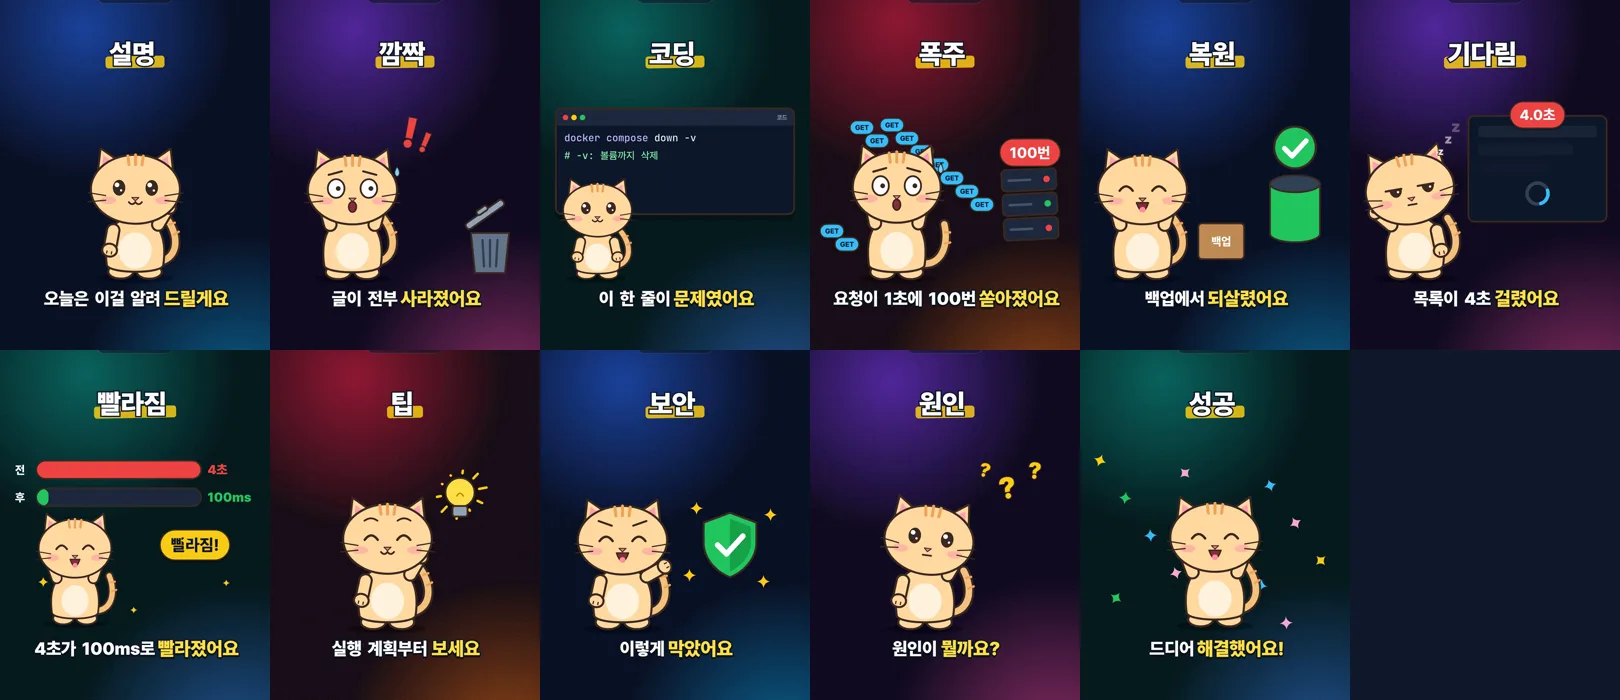
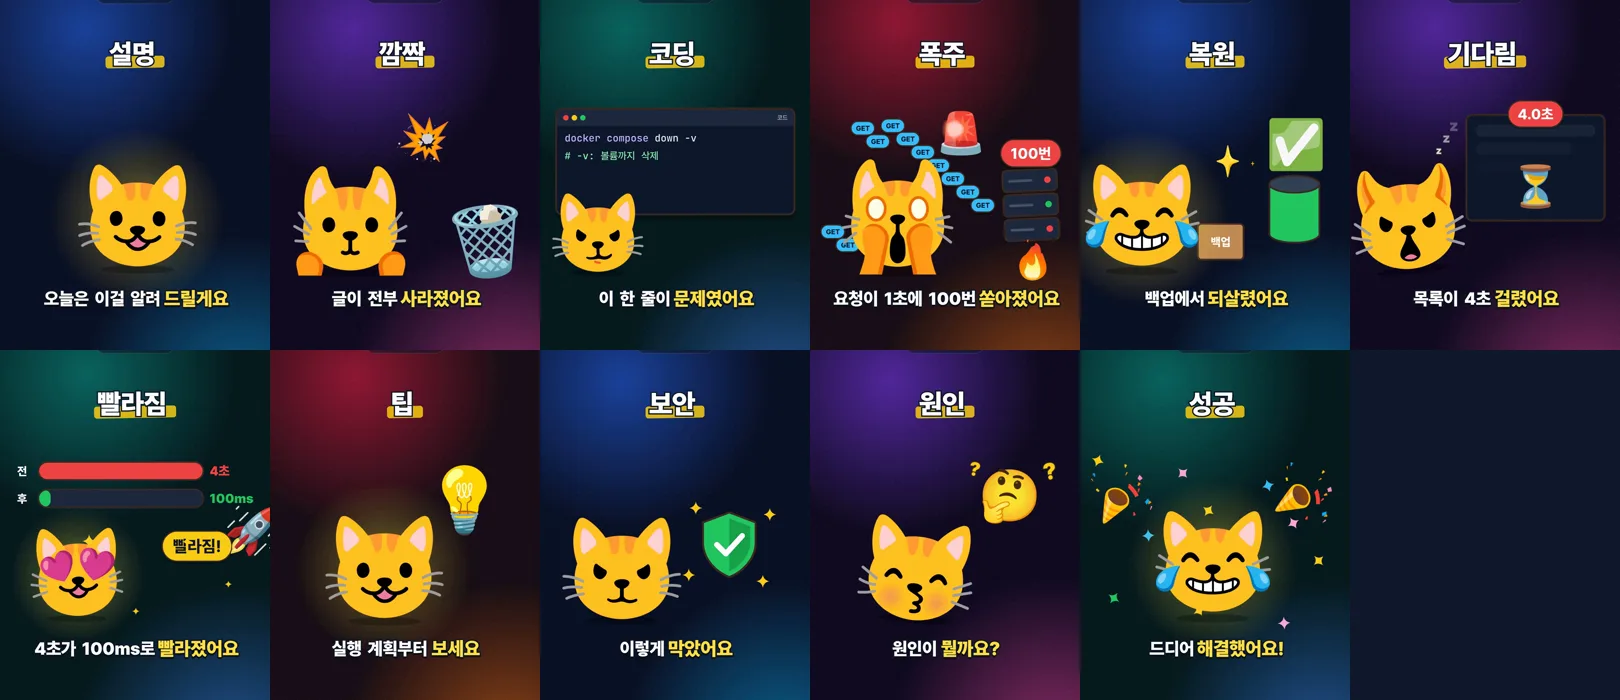
render-worker: 기쁜 표정 빛을 은은한 원형 빛으로 바꾸고 @remotion/shapes 빼기 (#277)
Claude-Session: https://claude.ai/code/session_01Y8NuZvyFS4arTLvW25ncLP

diff --git a/app/render-worker/remotion/src/Emoji.tsx b/app/render-worker/remotion/src/Emoji.tsx
@@ -1,7 +1,6 @@
 // 디자이너가 만든 움직이는 그림: Google Noto 애니메이션 이모지(Lottie, CC BY 4.0).
 // 마스코트(고양이 얼굴)와 소품(전구·로켓·폭죽 등)을 @remotion/lottie로 그린다. 재생은 장면 프레임에 맞춰 Remotion이 돌린다.
 import {Lottie, type LottieAnimationData} from '@remotion/lottie';
-import {Star} from '@remotion/shapes';
 import React from 'react';
 import {useCurrentFrame} from 'remotion';
 import type {Pose} from './Cat';
@@ -57,17 +56,16 @@ const HAPPY: Face[] = ['grin', 'joy', 'love'];
 export const Mascot: React.FC<{p: Pose; face: Face}> = ({p, face}) => {
   const frame = useCurrentFrame();
   const size = p.size * 0.92;
-  // 기쁜 표정 뒤에는 천천히 도는 햇살(@remotion/shapes Star)을 깔아 시선을 모은다
+  // 기쁜 표정 뒤에는 숨 쉬듯 커졌다 작아지는 빛을 깔아 시선을 모은다
   const rays = HAPPY.includes(face);
   // 말할 때 소리 크기만큼 살짝 커졌다 작아져서 말하는 느낌을 준다
   const talk = 1 + 0.05 * p.talk;
   return (
     <>
     {rays ? (
-      <div style={{position: 'absolute', left: p.x - size * 0.8, top: p.y - size * 1.3, width: size * 1.6, height: size * 1.6, display: 'grid',
-        placeItems: 'center', rotate: `${frame * 0.6}deg`, opacity: 0.22}}>
-        <Star points={12} innerRadius={size * 0.32} outerRadius={size * 0.8} cornerRadius={8} fill="#fde68a" />
-      </div>
+      <div style={{position: 'absolute', left: p.x - size * 0.8, top: p.y - size * 1.3, width: size * 1.6, height: size * 1.6, borderRadius: '50%',
+        background: 'radial-gradient(circle, rgba(253,224,71,0.45) 0%, rgba(253,224,71,0.18) 35%, rgba(253,224,71,0) 62%)',
+        scale: String(1 + 0.06 * Math.sin(frame / 8))}} />
     ) : null}
     <div style={{position: 'absolute', left: p.x - size / 2, top: p.y - size, width: size, height: size, transformOrigin: '50% 100%',
       scale: `${(talk / Math.sqrt(p.squash)).toFixed(4)} ${(talk * p.squash).toFixed(4)}`, rotate: `${p.bodyTilt + p.headTilt * 0.6}deg`}}>
